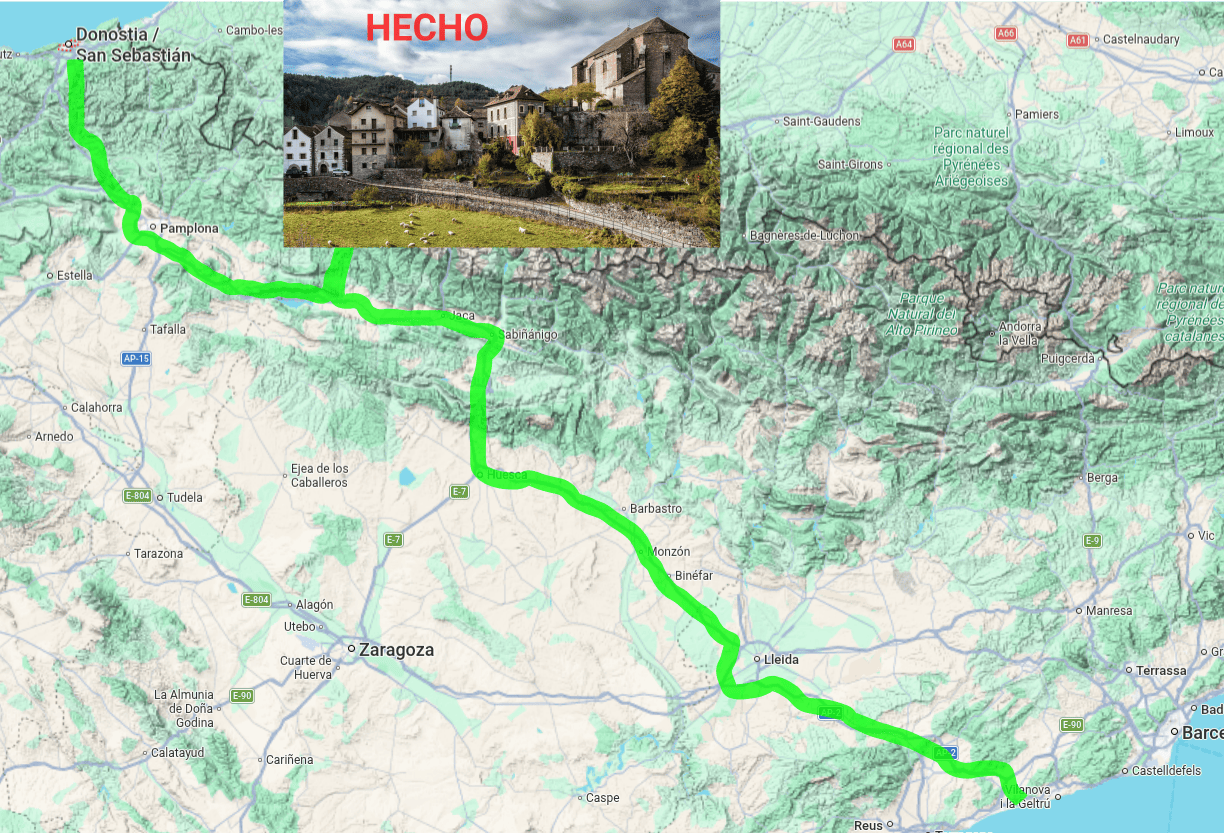
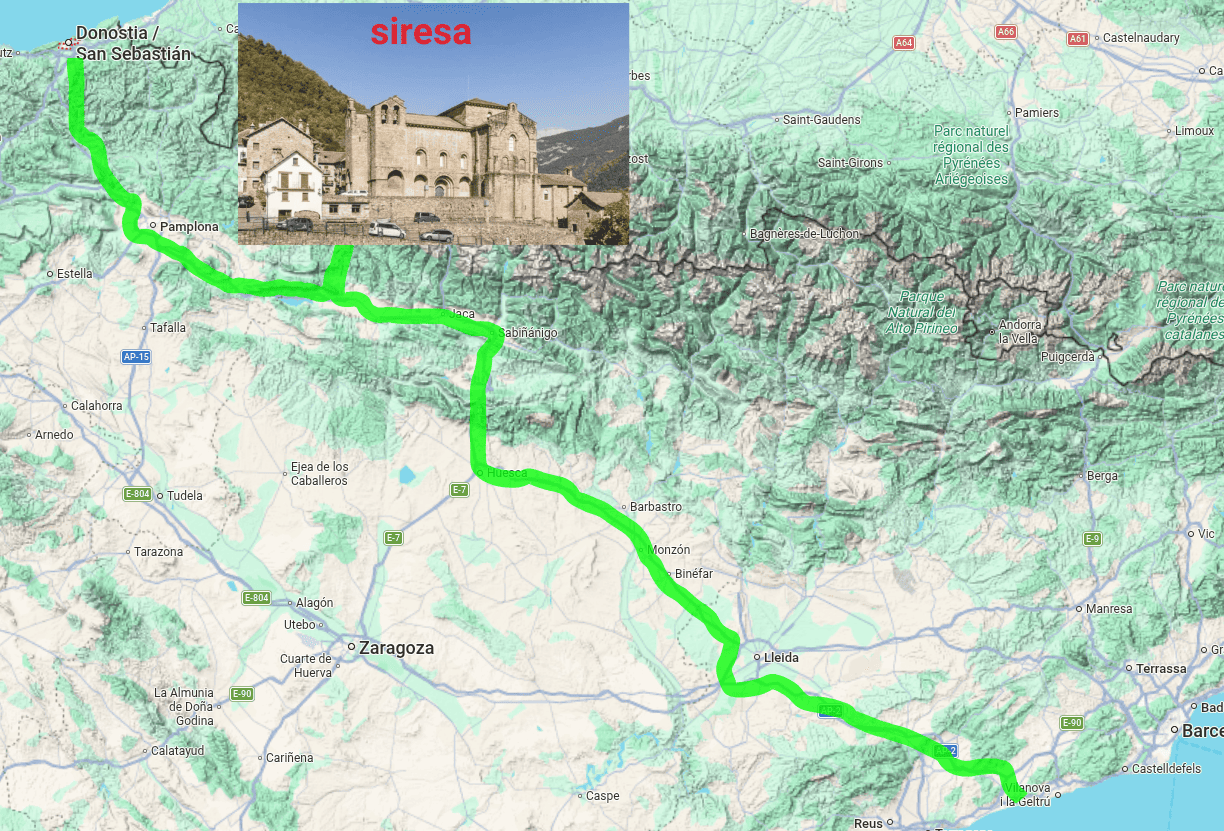
v1.0 modificado por segunda vez

diff --git a/reflex_viaje/components/navbar.py b/reflex_viaje/components/navbar.py
@@ -37,7 +37,7 @@ def navbar_buttons() -> rx.Component:
                                 align_items="center",  
                             ),
                         ),
-                        rx.cond(LoginState.usuario == "[email redacted]",
+                        rx.cond(LoginState.usuario == "[email redacted]",
                             rx.vstack(
                                 rx.text(f"Hola, {LoginState.usuario}", size="2", color="white"),
                                 rx.image(
@@ -49,7 +49,7 @@ def navbar_buttons() -> rx.Component:
                                 align_items="center",  
                             ),
                         ),
-                        rx.cond(LoginState.usuario == "[email redacted]",
+                        rx.cond(LoginState.usuario == "[email redacted]",
                            
                                 rx.vstack(
                                     rx.text(f"Hola, {LoginState.usuario}", size="2", color="white"),

diff --git a/reflex_viaje/pages/fotosdestinos.py b/reflex_viaje/pages/fotosdestinos.py
@@ -20,7 +20,7 @@ class FotosDestinosState(rx.State):
         {"url": "/Getaria_1.jpg", "title": "Getaria", "desc": "Pueblo pesquero famoso por su 'ratón', el txakoli y Elcano."},
         {"url": "/zumaia_1.jpg", "title": "Zumaia (Flysch)", "desc": "Impresionantes acantilados y formaciones geológicas de millones de años."},
         {"url": "/Hendaye.jpg", "title": "Hendaya", "desc": "Playa kilométrica en la frontera y el impresionante Castillo de Abbadia."},
-        {"url": "/Hecho.png", "title": "Valle de Hecho", "desc": "Naturaleza indómita, bosques y picos majestuosos del Pirineo Aragonés."}
+        {"url": "/siresa.png", "title": "Siresa", "desc": "Naturaleza indómita, bosques y picos majestuosos del Pirineo Aragonés."}
     ]
     
     current_index: int = 0